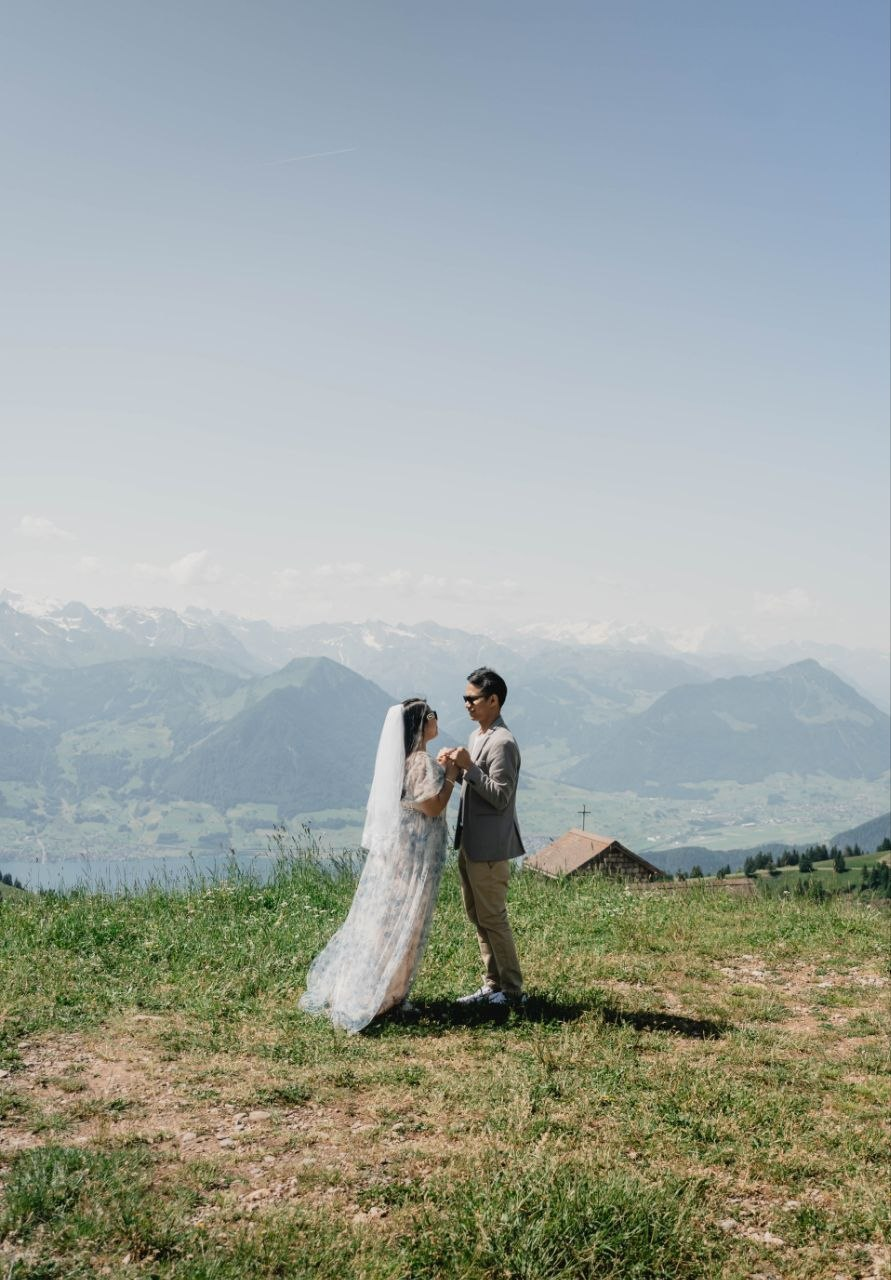
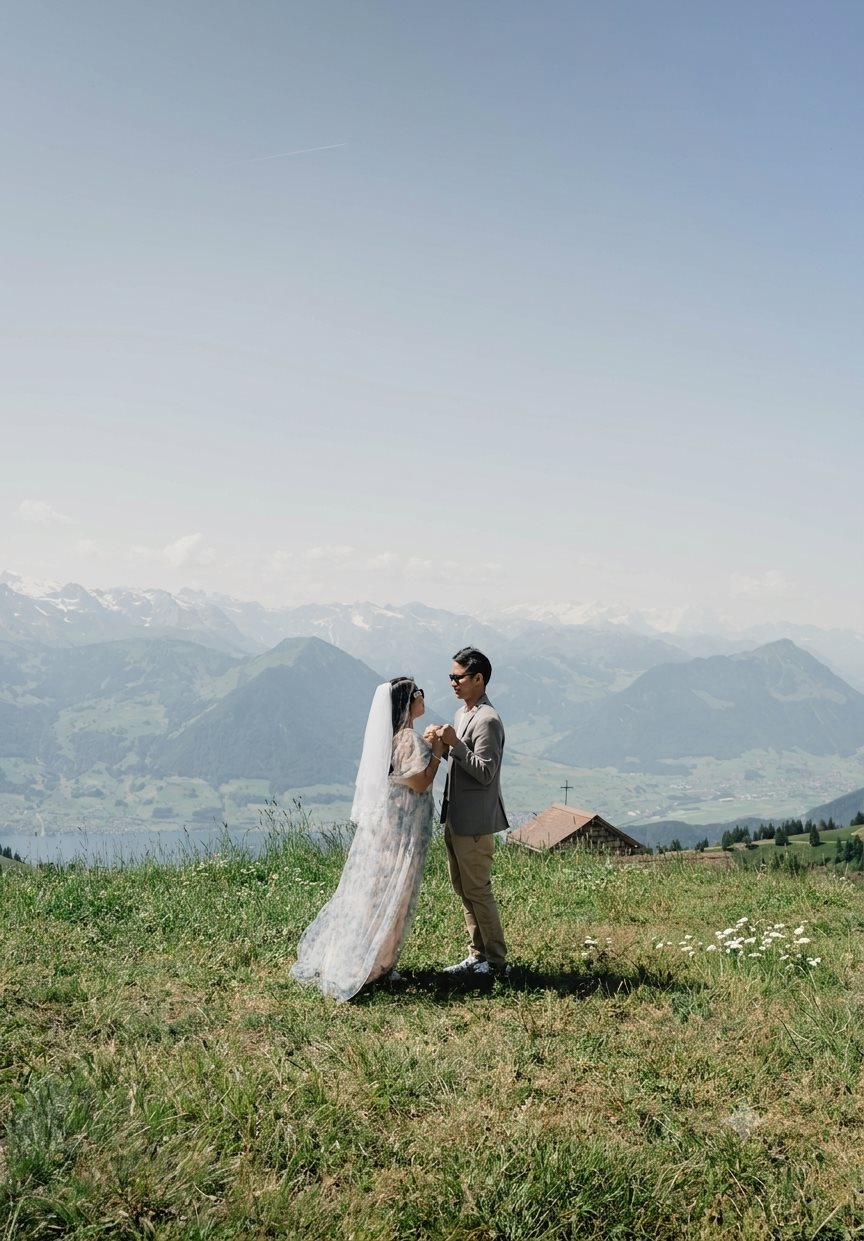
RSVP: campo de menú (carne/pescado) + foto de galería actualizada
- Nuevo campo obligatorio en el formulario, entre autobús y alérgenos
- Verificado end-to-end: llega a la columna 'Menú' del Google Sheets
- Galería: foto 3 sustituida por la versión mejorada de la pareja
  frente a la capilla (la usuaria quitó la vertical del baile)

Changed region(s): [[0.0, 0.5205, 1.0, 1.0]]

diff --git a/index.html b/index.html
@@ -2967,6 +2967,19 @@
             </div>
           </div>
           <div class="form-group">
+            <label data-i18n="rsvp.menu">¿Qué menú prefieres?</label>
+            <div class="radio-group">
+              <label>
+                <input type="radio" name="menu" value="carne" required>
+                <span data-i18n="rsvp.menuCarne">Carne</span>
+              </label>
+              <label>
+                <input type="radio" name="menu" value="pescado">
+                <span data-i18n="rsvp.menuPescado">Pescado</span>
+              </label>
+            </div>
+          </div>
+          <div class="form-group">
             <label for="alergenos" data-i18n="rsvp.allergies">Alérgenos o restricciones alimentarias</label>
             <textarea id="alergenos" rows="2" placeholder="Indícanos si tienes alguna alergia o restricción..." data-i18n-ph="rsvp.allergiesPh"></textarea>
           </div>
@@ -3270,6 +3283,9 @@
         'rsvp.bus': '¿Usarás el autobús privado?',
         'rsvp.busYes': 'Sí, iré en el autobús',
         'rsvp.busNo': 'No, iré por mi cuenta',
+        'rsvp.menu': '¿Qué menú prefieres?',
+        'rsvp.menuCarne': 'Carne',
+        'rsvp.menuPescado': 'Pescado',
         'rsvp.allergies': 'Alérgenos o restricciones alimentarias',
         'rsvp.allergiesPh': 'Indícanos si tienes alguna alergia o restricción...',
         'rsvp.message': 'Mensaje para los novios',
@@ -3443,6 +3459,9 @@
         'rsvp.bus': 'Will you use the private bus?',
         'rsvp.busYes': "Yes, I'll take the bus",
         'rsvp.busNo': "No, I'll make my own way",
+        'rsvp.menu': 'Which menu do you prefer?',
+        'rsvp.menuCarne': 'Meat',
+        'rsvp.menuPescado': 'Fish',
         'rsvp.allergies': 'Allergies or dietary restrictions',
         'rsvp.allergiesPh': 'Let us know about any allergies or restrictions...',
         'rsvp.message': 'Message for the couple',
@@ -3743,6 +3762,7 @@
           apellido: document.getElementById('apellido').value.trim(),
           telefono: document.getElementById('telefono').value.trim(),
           autobus: document.querySelector('input[name="autobus"]:checked').value,
+          menu: (document.querySelector('input[name="menu"]:checked') || {}).value || '',
           asistencia: document.querySelector('input[name="asistencia"]:checked').value,
           alergenos: document.getElementById('alergenos').value.trim(),
           mensaje: document.getElementById('mensaje').value.trim()
